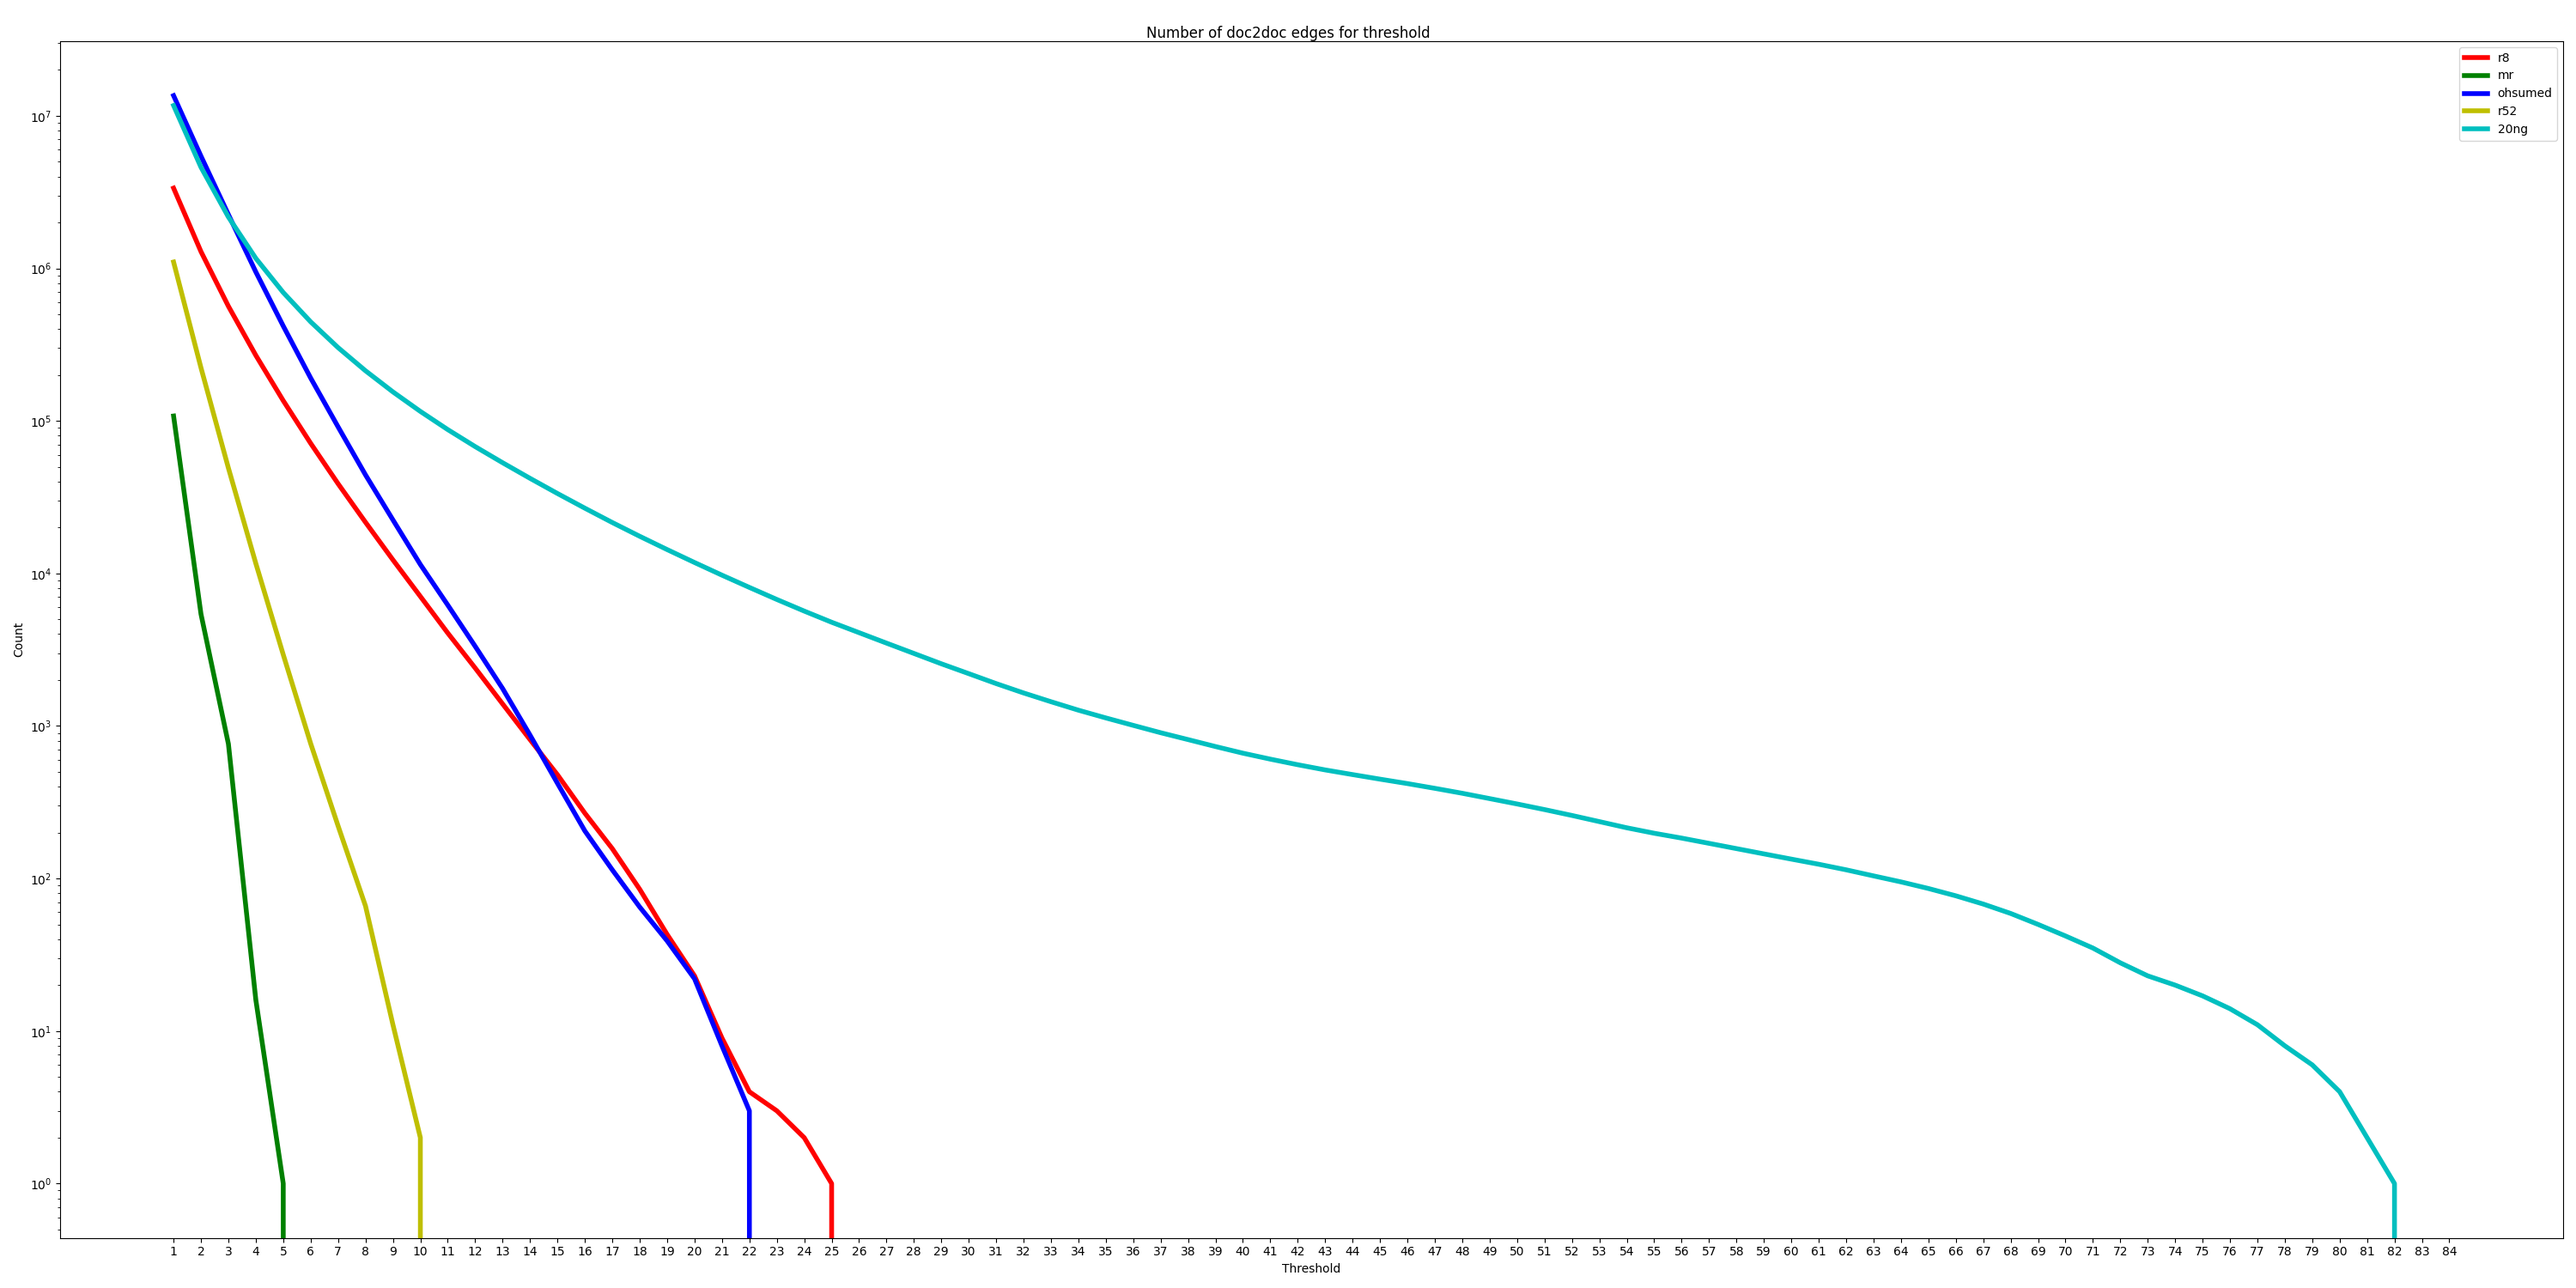
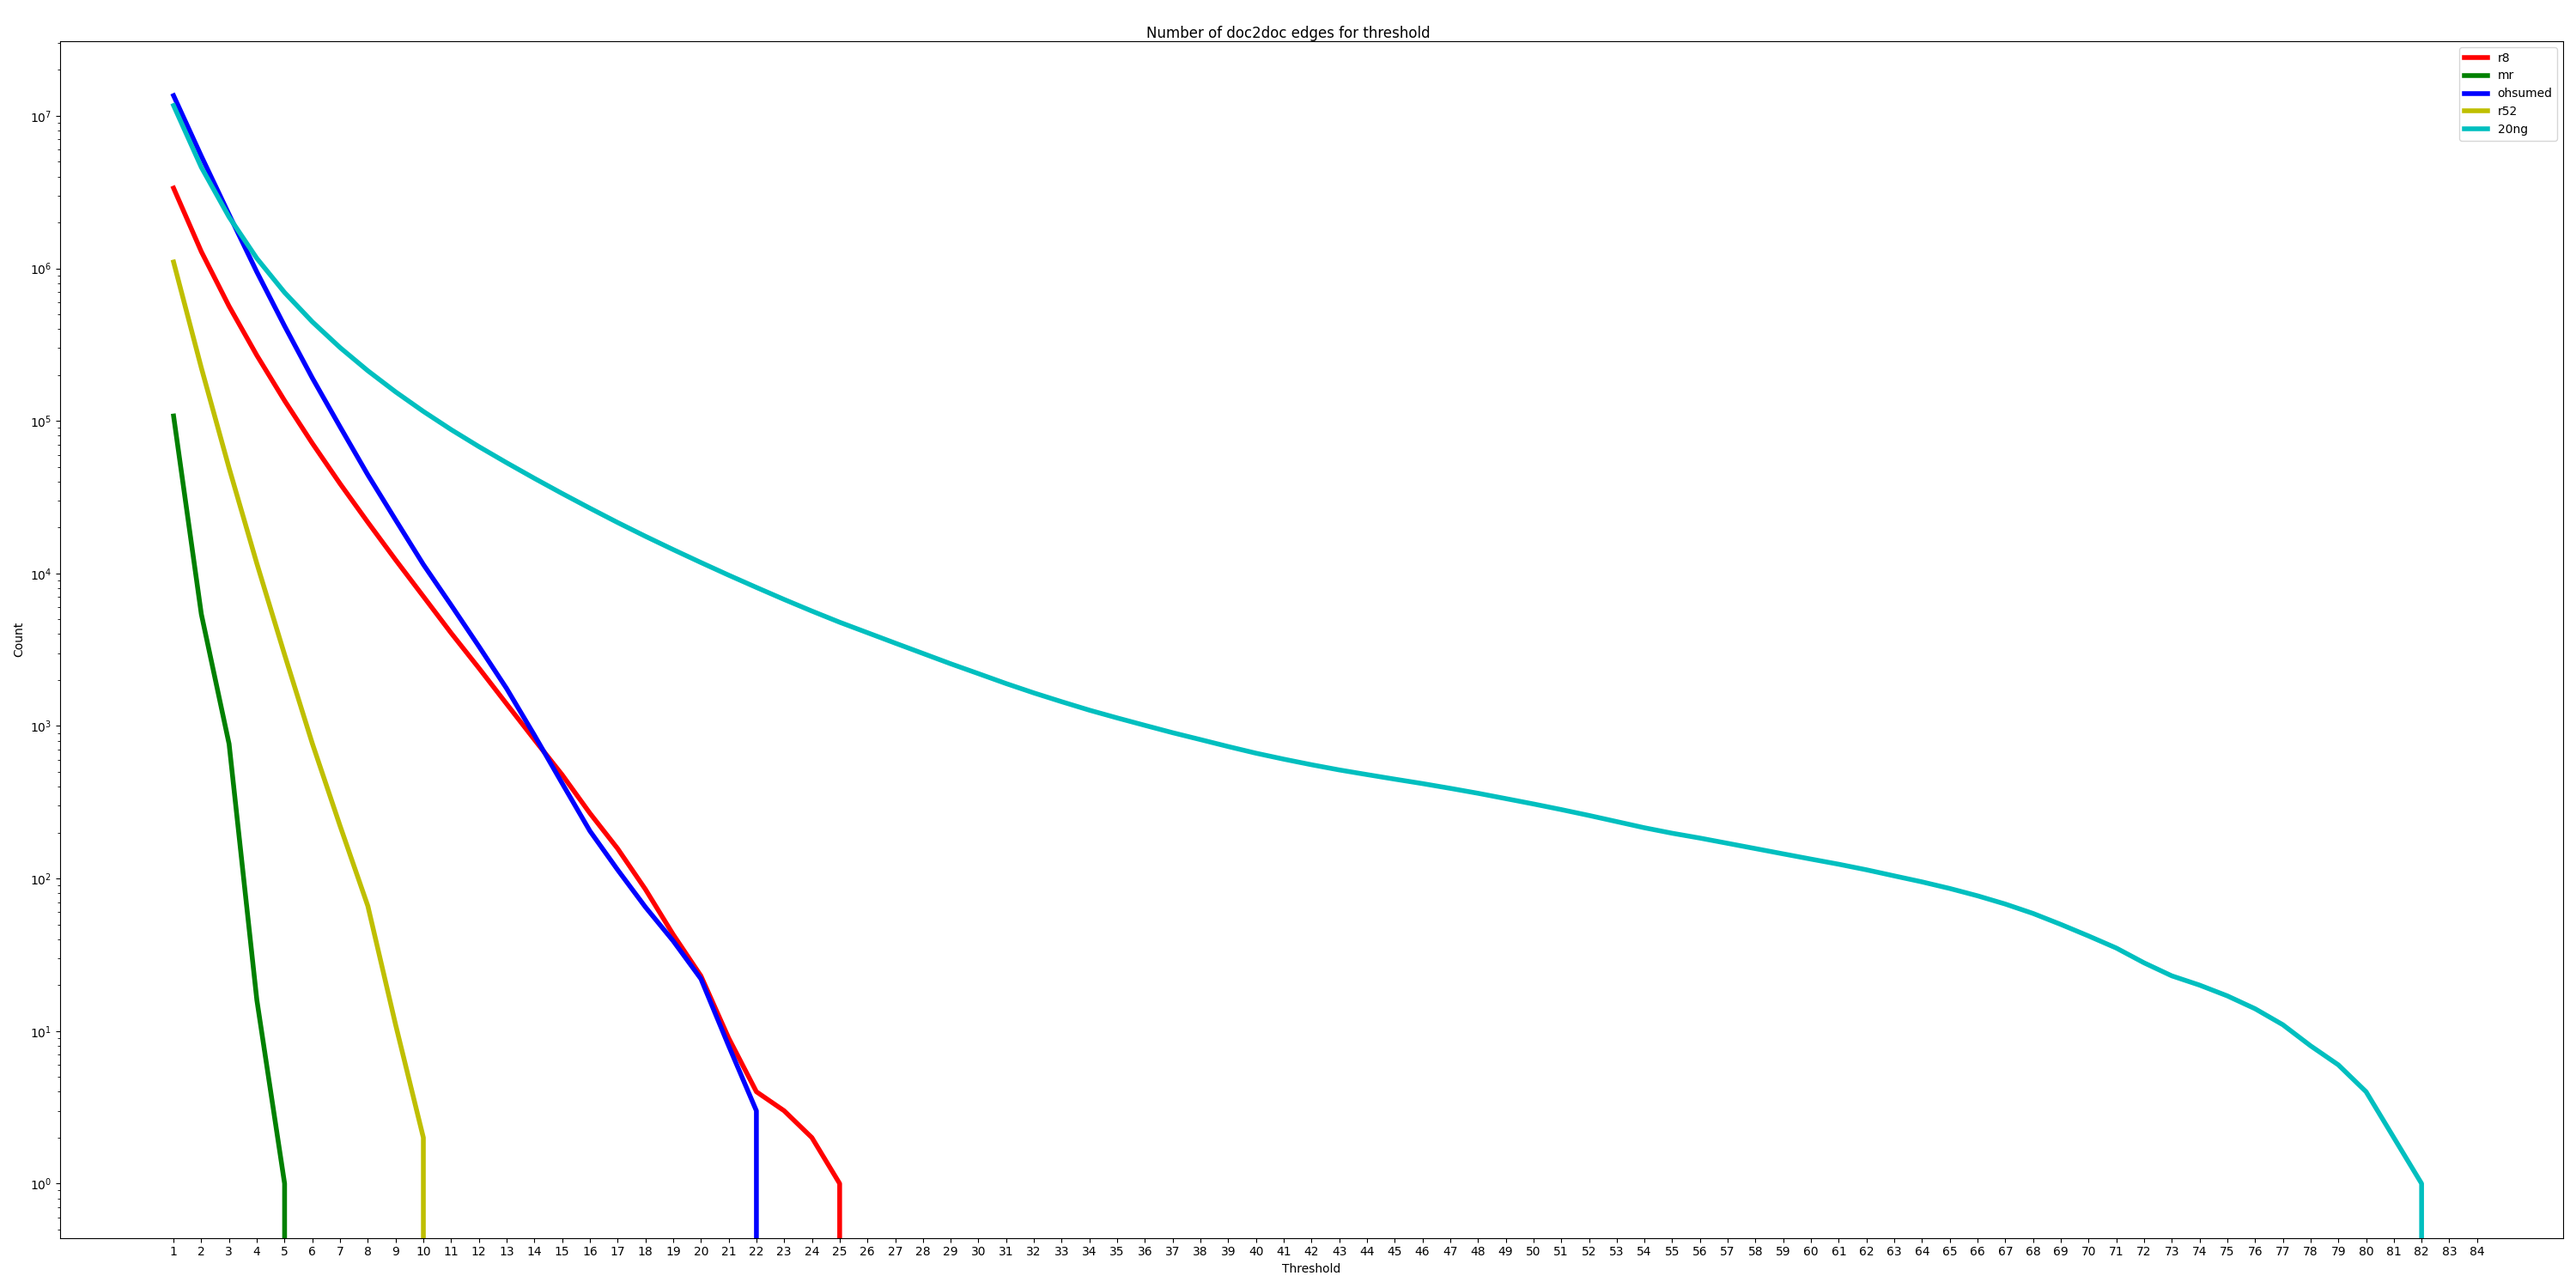
Update results plotting

diff --git a/analyze_results.py b/analyze_results.py
@@ -121,31 +121,37 @@ def plot_all(metric="accuracy"):
     plt.close(fig)
 
 
-def plot_number_of_edges():
-    thresholds = range(1, 85)
+def get_number_of_edges():
     dataset_length = {}
     for dataset in available_datasets:
         number_of_edges = []
         document_triples = file.get_document_triples_metrics(dataset)
-        print(f"{dataset} max: {document_triples['count'].max()}")
-        for t in thresholds:
+        maximum = document_triples['count'].max()
+        print(f"{dataset} max: {maximum}")
+        for t in range(1, maximum + 1):
             num = document_triples[document_triples["count"] > t].shape[0]
             number_of_edges.append(num)
-        assert len(number_of_edges) == len(thresholds)
+        assert len(number_of_edges) == maximum
         dataset_length[dataset] = number_of_edges
+    return dataset_length
+
+
+def plot_number_of_edges():
+    ticks = range(1, 85)
+    dataset_length = get_number_of_edges()
 
     fig, ax = plt.subplots(figsize=(30, 15))
     fig.suptitle(f"Number of doc2doc edges for threshold")
     plt.xlabel("Threshold")
     plt.ylabel("Count")
-    plt.xticks(thresholds)
+    plt.xticks(ticks)
     plt.yscale("log")
     counter = 0
     colors = ["r", "g", "b", "y", "c", "m"]
 
     for key in dataset_length:
         value = dataset_length[key]
-        plt.plot(thresholds, value, colors[counter], label=key, linewidth=4)
+        plt.plot(range(1, len(value) + 1), value, colors[counter], label=key, linewidth=4)
         counter += 1
 
     plt.legend()
@@ -155,7 +161,7 @@ def plot_number_of_edges():
 
 
 if __name__ == '__main__':
-    # plot_number_of_edges()
-    plot_all()
-    plot_all("f1_macro")
-    plot_all("f1_micro")
+    plot_number_of_edges()
+    # plot_all()
+    # plot_all("f1_macro")
+    # plot_all("f1_micro")
